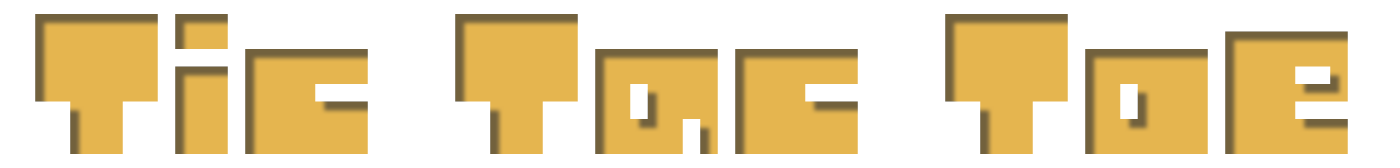
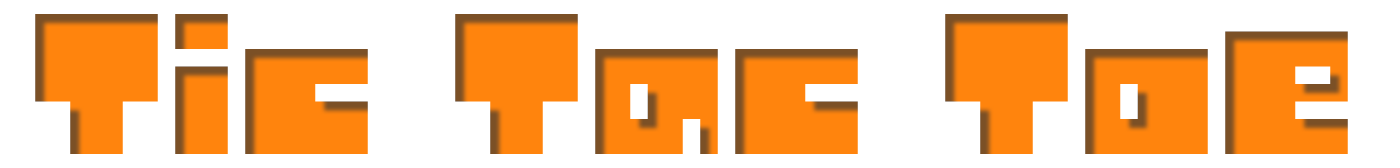
kl

diff --git a/src/web/tictactoe/src/hud.js b/src/web/tictactoe/src/hud.js
@@ -110,10 +110,13 @@ define("zotohlab/p/hud", ['cherimoia/skarojs',
         wb= ccsx.vbox();
 
         this.title = ccsx.bmfLabel({
+          //fontPath: sh.getFontPath('font.SmallTypeWriting'),
           fontPath: sh.getFontPath('font.JellyBelly'),
           text: '',
+          //color: cc.color(255,132,13),
+          color: cc.color(94,49,120),
           anchor: ccsx.AnchorTop,
-          scale: 0.1,
+          scale: xcfg.game.scale * 0.6,
           pos: cc.p(cw.x, wb.top - 2*csts.TILE)
         });
         this.addItem(this.title);
@@ -121,7 +124,7 @@ define("zotohlab/p/hud", ['cherimoia/skarojs',
         this.score1= ccsx.bmfLabel({
           fontPath: sh.getFontPath('font.SmallTypeWriting'),
           text: '0',
-          scale: 0.2,
+          scale: xcfg.game.scale,
           color: cc.color(225,225,225),
           pos: cc.p(csts.TILE + csts.S_OFF + 2,
                     wb.top - csts.TILE - csts.S_OFF),
@@ -132,7 +135,7 @@ define("zotohlab/p/hud", ['cherimoia/skarojs',
         this.score2= ccsx.bmfLabel({
           fontPath: sh.getFontPath('font.SmallTypeWriting'),
           text: '0',
-          scale: 0.2,
+          scale: xcfg.game.scale,
           color: cc.color(255,255,255),
           pos: cc.p(wb.right - csts.TILE - csts.S_OFF,
                     wb.top - csts.TILE - csts.S_OFF),
@@ -143,15 +146,19 @@ define("zotohlab/p/hud", ['cherimoia/skarojs',
         this.status= ccsx.bmfLabel({
           fontPath: sh.getFontPath('font.CoffeeBuzzed'),
           text: '',
-          scale: 0.06,
+          color: cc.color(255,255,255),
+          //color: cc.color(94,49,120),
+          scale: xcfg.game.scale * 0.3,// 0.06,
           pos: cc.p(cw.x, wb.bottom + csts.TILE * 10)
         });
         this.addItem(this.status);
 
         this.result= ccsx.bmfLabel({
           fontPath: sh.getFontPath('font.CoffeeBuzzed'),
+          //color: cc.color(94,49,120),
+          color: cc.color(255,255,255),
           text: '',
-          scale: 0.06,
+          scale: xcfg.game.scale * 0.3,// 0.06,
           pos: cc.p(cw.x, wb.bottom + csts.TILE * 10),
           visible: false
         });
@@ -174,7 +181,8 @@ define("zotohlab/p/hud", ['cherimoia/skarojs',
             fontPath: sh.getFontPath('font.AutoMission'),
             text: '',
             scale: 0.1,
-            color: cc.color(255,255,255), // 0xff6600;
+            //color: cc.color(94,49,120),
+            color: cc.color(255,255,255),
             pos: cc.p(cw.x,
                       wb.top - 10*csts.TILE),
             anchor: ccsx.AnchorCenter
@@ -254,15 +262,13 @@ define("zotohlab/p/hud", ['cherimoia/skarojs',
       },
 
       drawResult: function(pnum) {
-        var msg;
+        var msg = sh.l10n('%whodraw');
 
         if (sjs.isNumber(pnum)) {
           switch (pnum) {
             case 2: msg= sh.l10n('%whowin', { who: this.p2Long}); break;
             case 1: msg= sh.l10n('%whowin', { who: this.p1Long}); break;
           }
-        } else {
-          msg= sh.l10n('%whodraw');
         }
 
         this.drawStatusText(this.result, msg);

diff --git a/src/web/cocos2d/src/zotohlab/ext/xboot.js b/src/web/cocos2d/src/zotohlab/ext/xboot.js
@@ -226,8 +226,11 @@ define("zotohlab/p/boot", ['cherimoia/skarojs',
       }
 
       rs= cc.view.getDesignResolutionSize();
+      xcfg.handleResolution(rs);
       sjs.loggr.info('DesignResolution, = [' +
-                     rs.width + ", " + rs.height + "]");
+                     rs.width + ", " +
+                     rs.height + "]" +
+                     ", scale = " + xcfg.game.scale);
 
       cc.director.setProjection(cc.Director.PROJECTION_2D);
       if (cc.sys.isNative) {

diff --git a/src/web/tictactoe/src/mmenu.js b/src/web/tictactoe/src/mmenu.js
@@ -66,9 +66,9 @@ define("zotohlab/p/mmenu", ['cherimoia/skarojs',
         tt = new cc.LabelBMFont(sh.l10n('%mmenu'),
                                 sh.getFontPath('font.JellyBelly')),
         tt.setPosition(cw.x, wb.top * 0.9);
-        tt.setOpacity(0.9*255);
-        tt.setScale(0.2);
-        tt.setColor(cc.color(229,181,79));
+        tt.setOpacity(0.9 * 255);
+        tt.setScale(xcfg.game.scale);
+        tt.setColor(cc.color(255,132,13));
 
         this.addItem(tt);
 

diff --git a/src/web/cocos2d/src/zotohlab/ext/xcfg.js b/src/web/cocos2d/src/zotohlab/ext/xcfg.js
@@ -62,6 +62,7 @@ define("zotohlab/asx/xcfg", ['cherimoia/skarojs',
       game: {
         borderTiles: 'cbox-borders_x8.png',
         preloadLevels: true,
+        scale: 1,
         sfx: 'mp3',
         landscape: false,
         gravity: 0,
@@ -134,6 +135,7 @@ define("zotohlab/asx/xcfg", ['cherimoia/skarojs',
         }
       },
 
+      handleResolution: function(rs) {},
       runOnce: function() {}
 
     };

diff --git a/src/web/tictactoe/src/config.js b/src/web/tictactoe/src/config.js
@@ -85,6 +85,11 @@ define("zotohlab/p/config", ['cherimoia/skarojs',
         }
       },
 
+      handleResolution: function(rs) {
+        //for default font, we use 48pt
+        this.game.scale = 52/256 * rs.width /320;
+      },
+
       runOnce: function() {
         cc.spriteFrameCache.addSpriteFrames( sh.getPListPath('game-pics'));
         cc.spriteFrameCache.addSpriteFrames( sh.getPListPath('lang-pics'));

diff --git a/src/web/tictactoe/src/i18n/game_en_US.js b/src/web/tictactoe/src/i18n/game_en_US.js
@@ -22,7 +22,7 @@ define("zotohlab/p/l10n", ['cherimoia/skarojs',
       "en" : {
 
         "%whosturn" : "{{who}}'s TURN...",
-        "%whodraw" : "Draw!",
+        "%whodraw" : "No one wins!",
         "%whowin" : "{{who}} Wins!",
 
         "%p2" : "P2",
